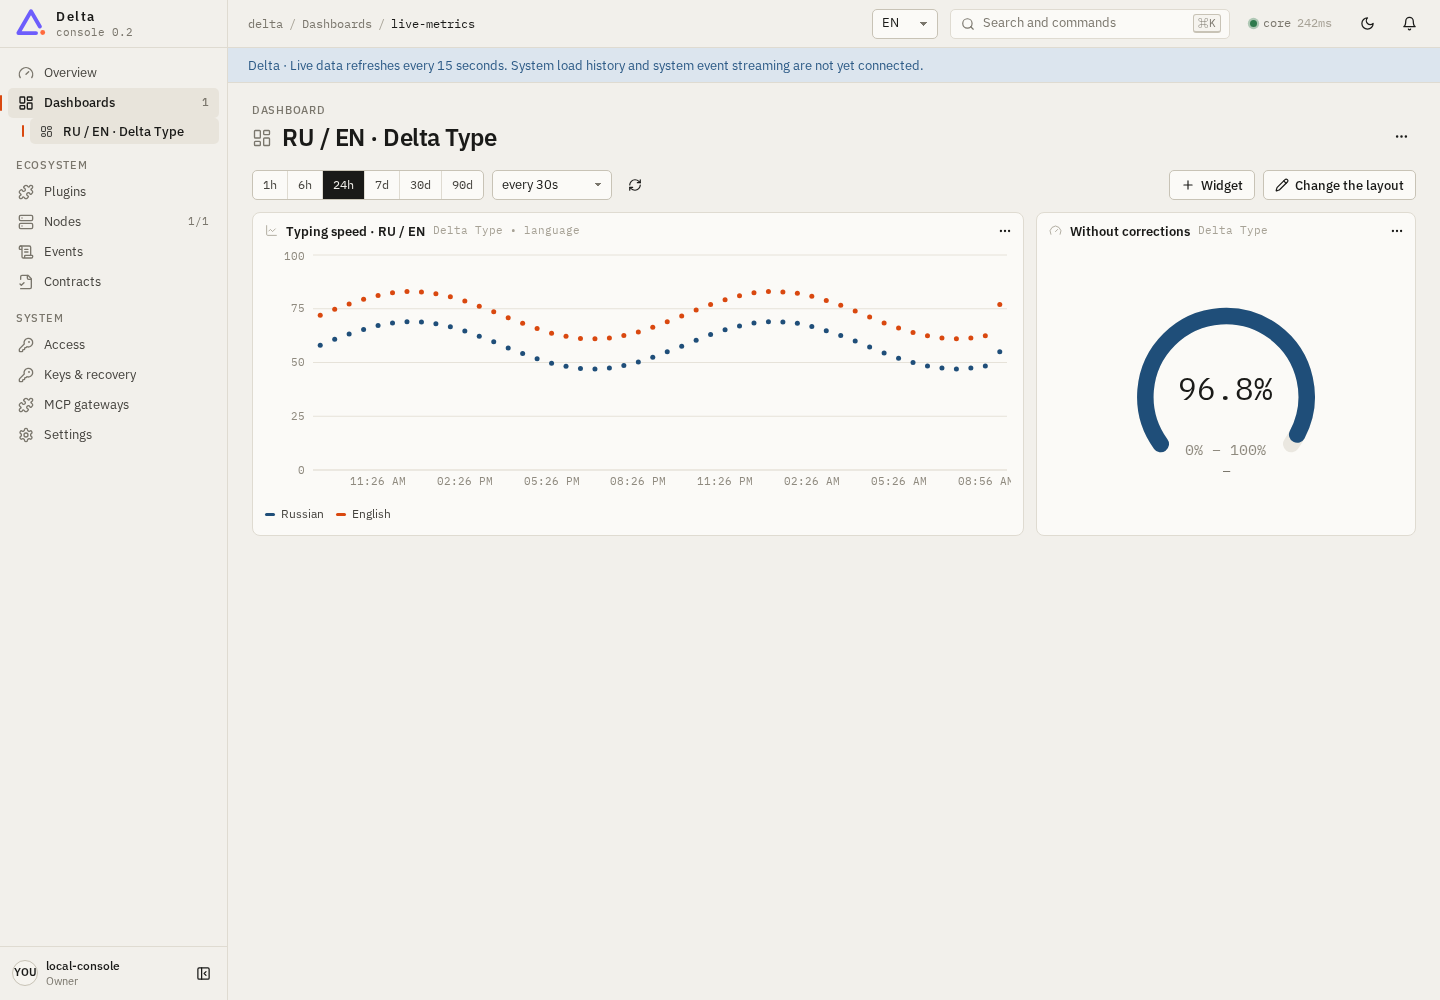
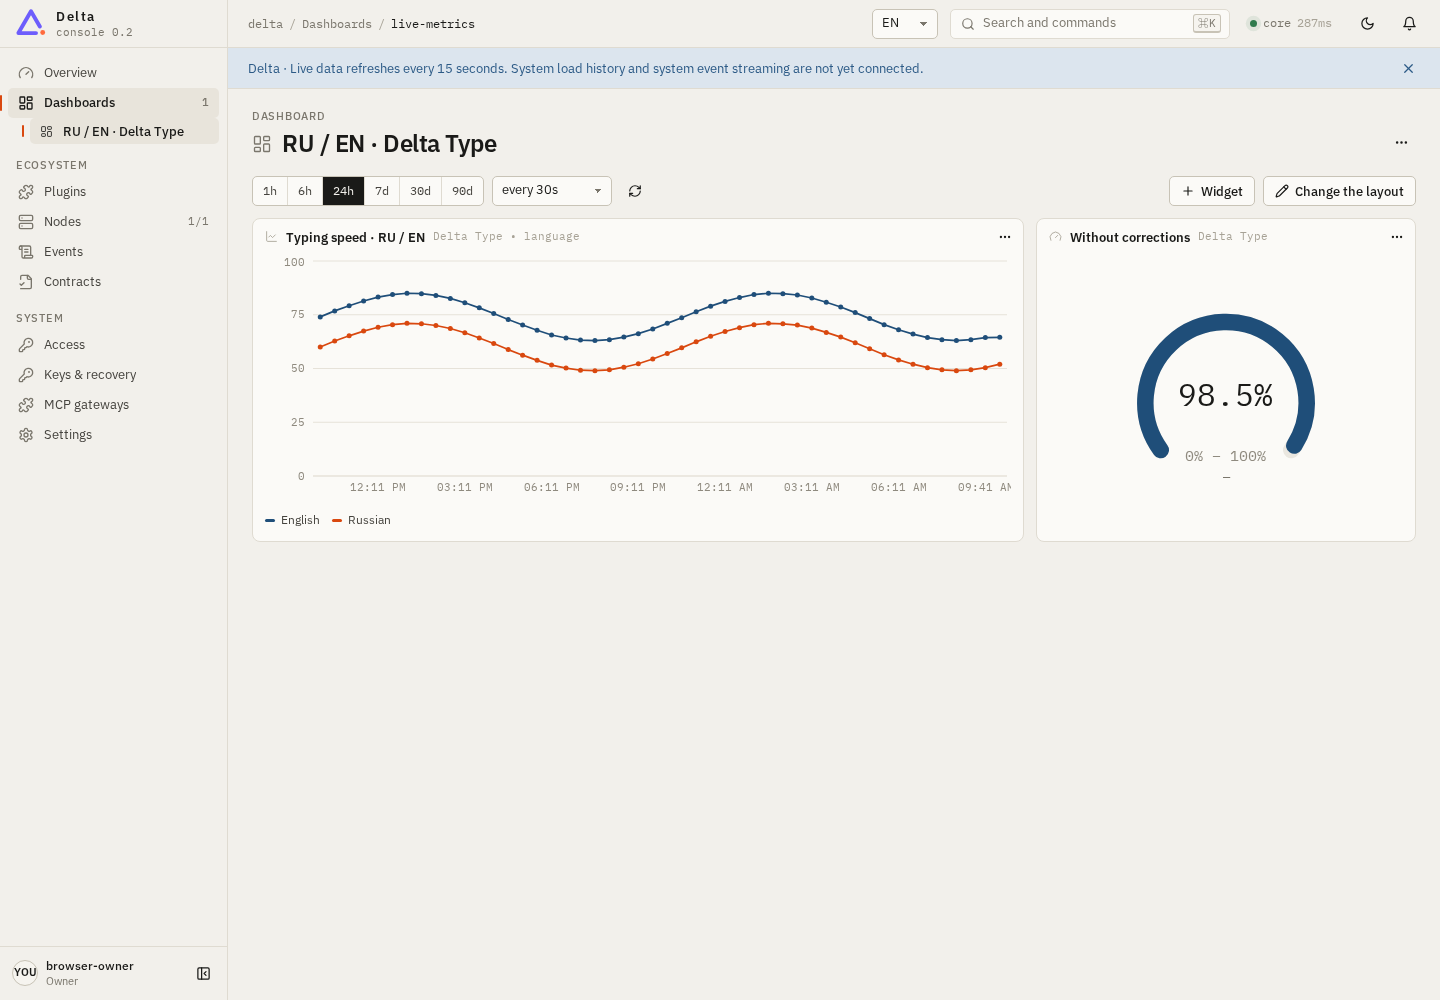
docs: record public installer verification and connected chart preview

diff --git a/docs/verification.md b/docs/verification.md
@@ -27,7 +27,7 @@ First manual login accepts `/api` before authentication and keeps API secrets ou
 
 ## Release installation checks
 
-`.github/workflows/install-test.yml` installs published binaries and all plugin release packages on Linux/Windows, using paths with spaces and no Rust compilation. `scripts/verify-install.mjs` verifies file backend, typing ingestion, all plugin registrations and web HTTP. Consult the latest **Prebuilt installation smoke test** run for the release-specific result; compiling a Windows binary alone is not a claim of a completed Windows install test.
+`.github/workflows/install-test.yml` installs published binaries and all plugin release packages on Linux/Windows, using paths with spaces and no Rust compilation. The public release smoke test [38716266968](https://github.com/n-ycta/delta/actions/runs/38716266968) passed on both platforms with core 0.3.1, web 0.2.5, storage 0.2.1 and typing 0.2.1. A separate fresh Linux installation from the same public downloads also passed. `scripts/verify-install.mjs` verifies file backend, typing ingestion, all plugin registrations and web HTTP. Consult the latest **Prebuilt installation smoke test** run for the release-specific result; compiling a Windows binary alone is not a claim of a completed Windows install test.
 
 ## Boundaries
 
